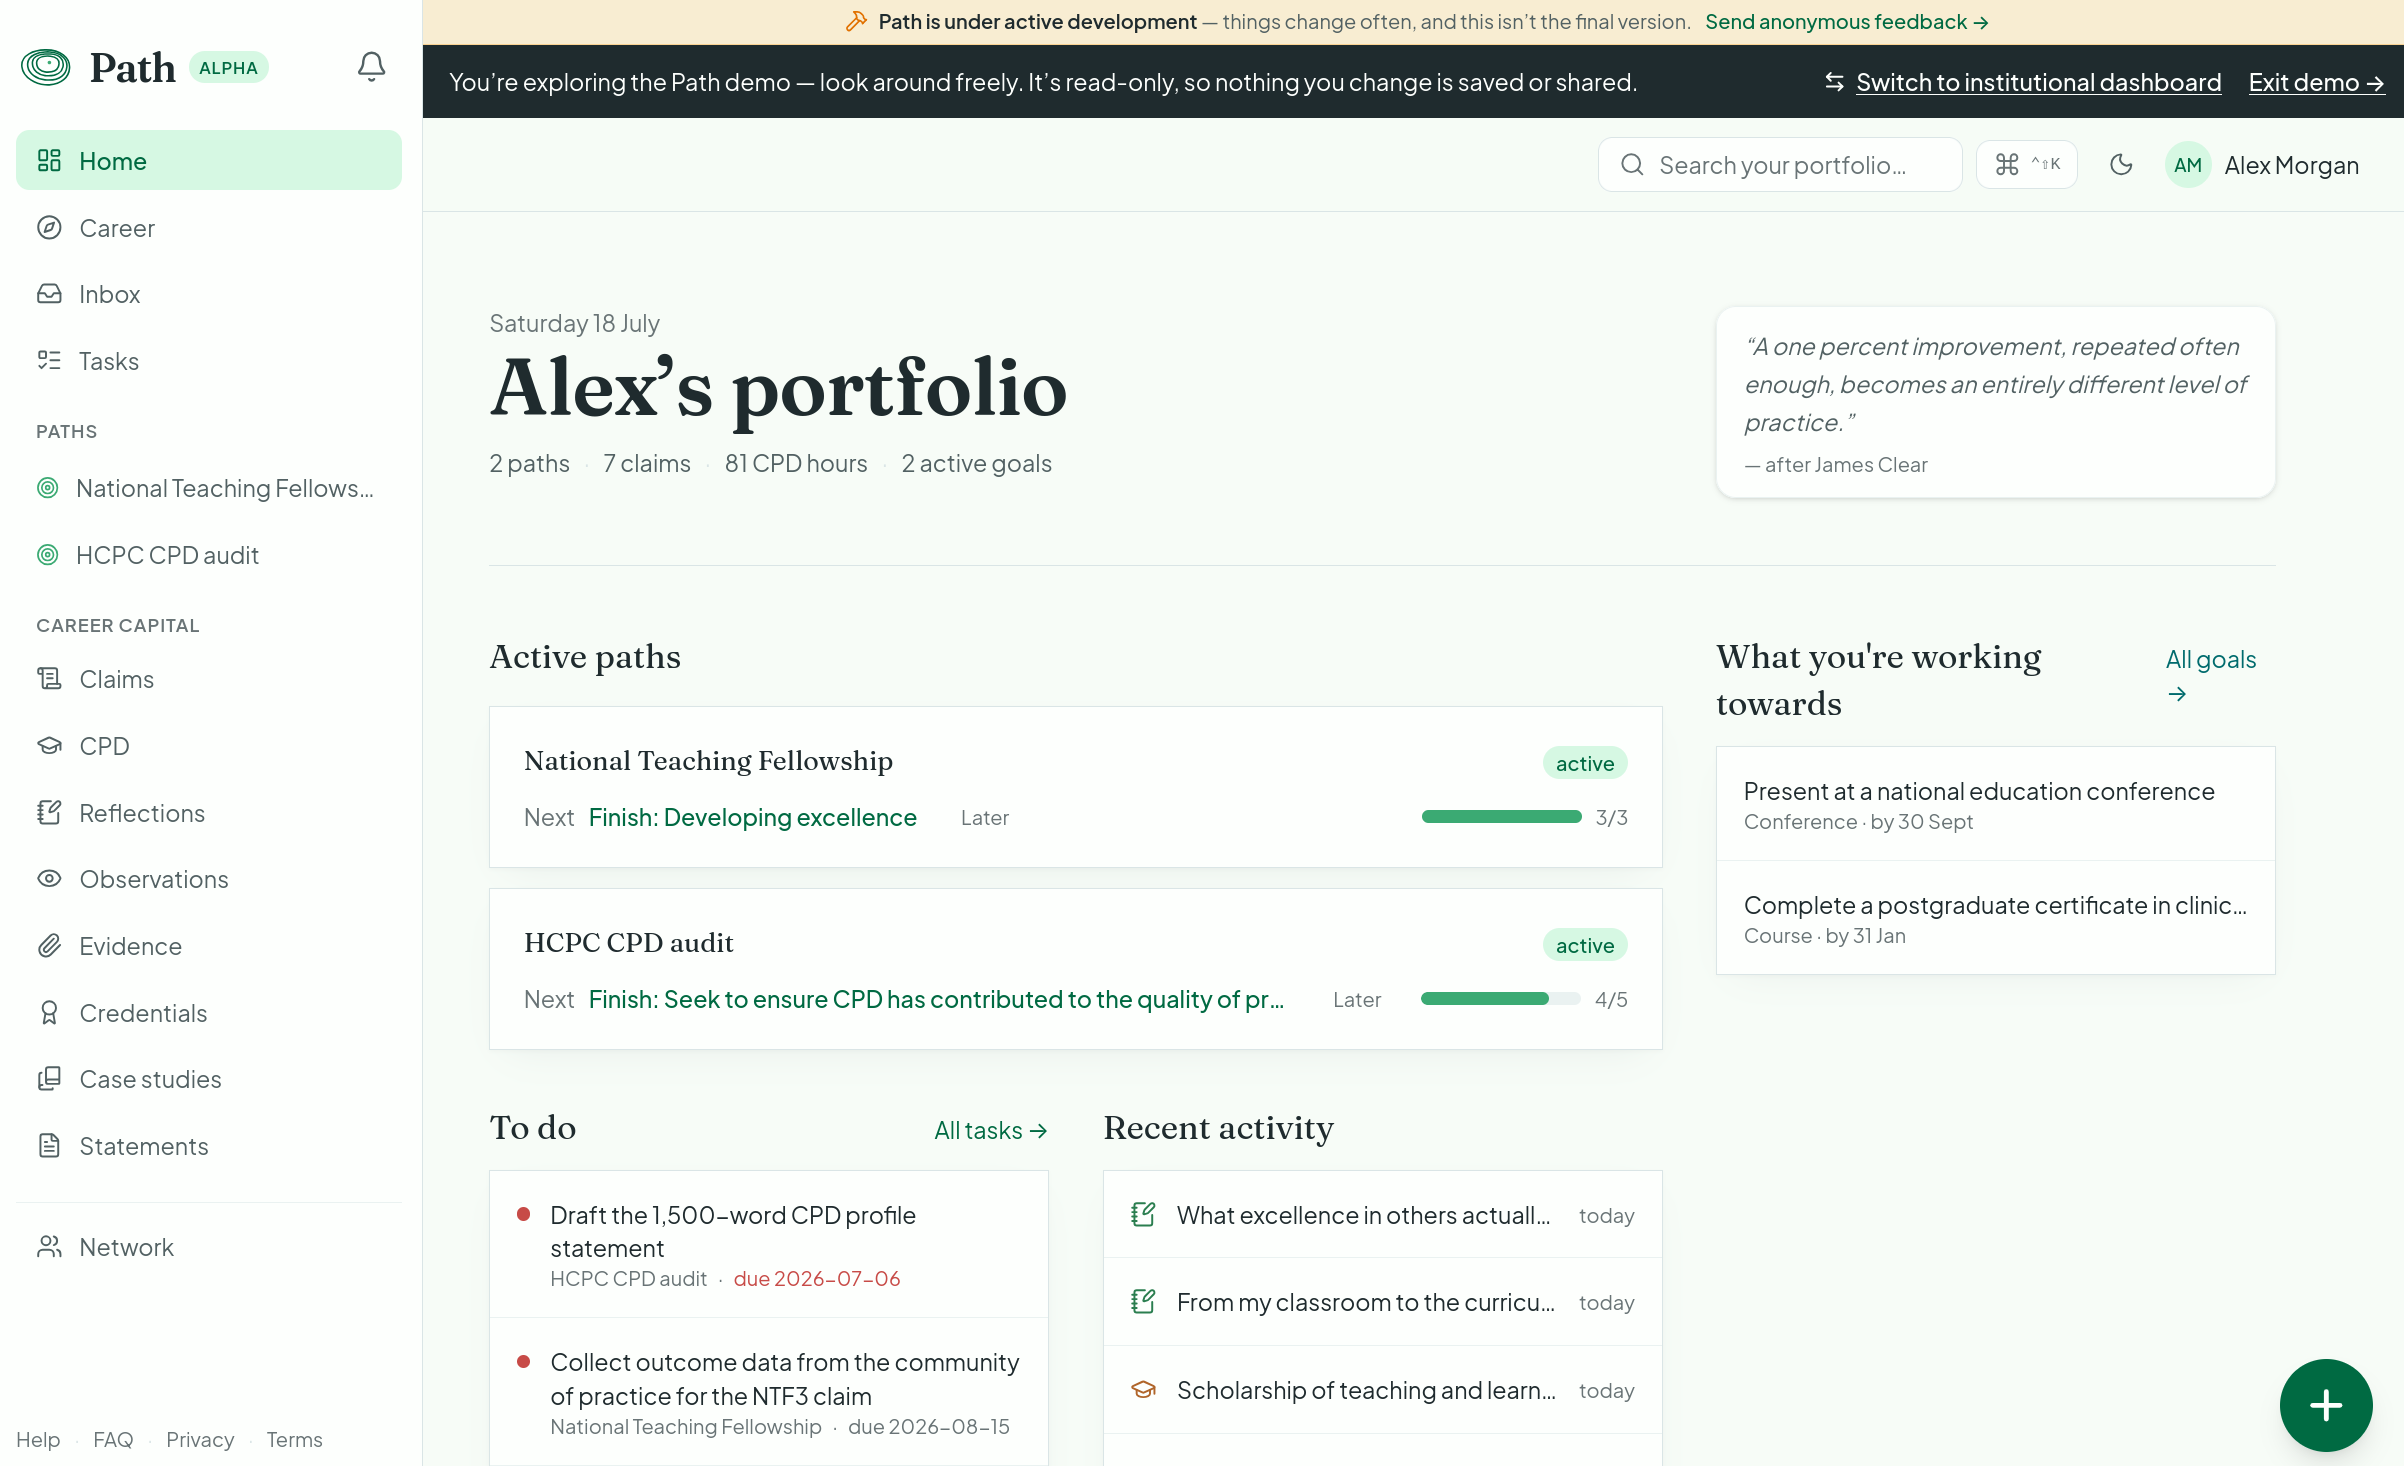
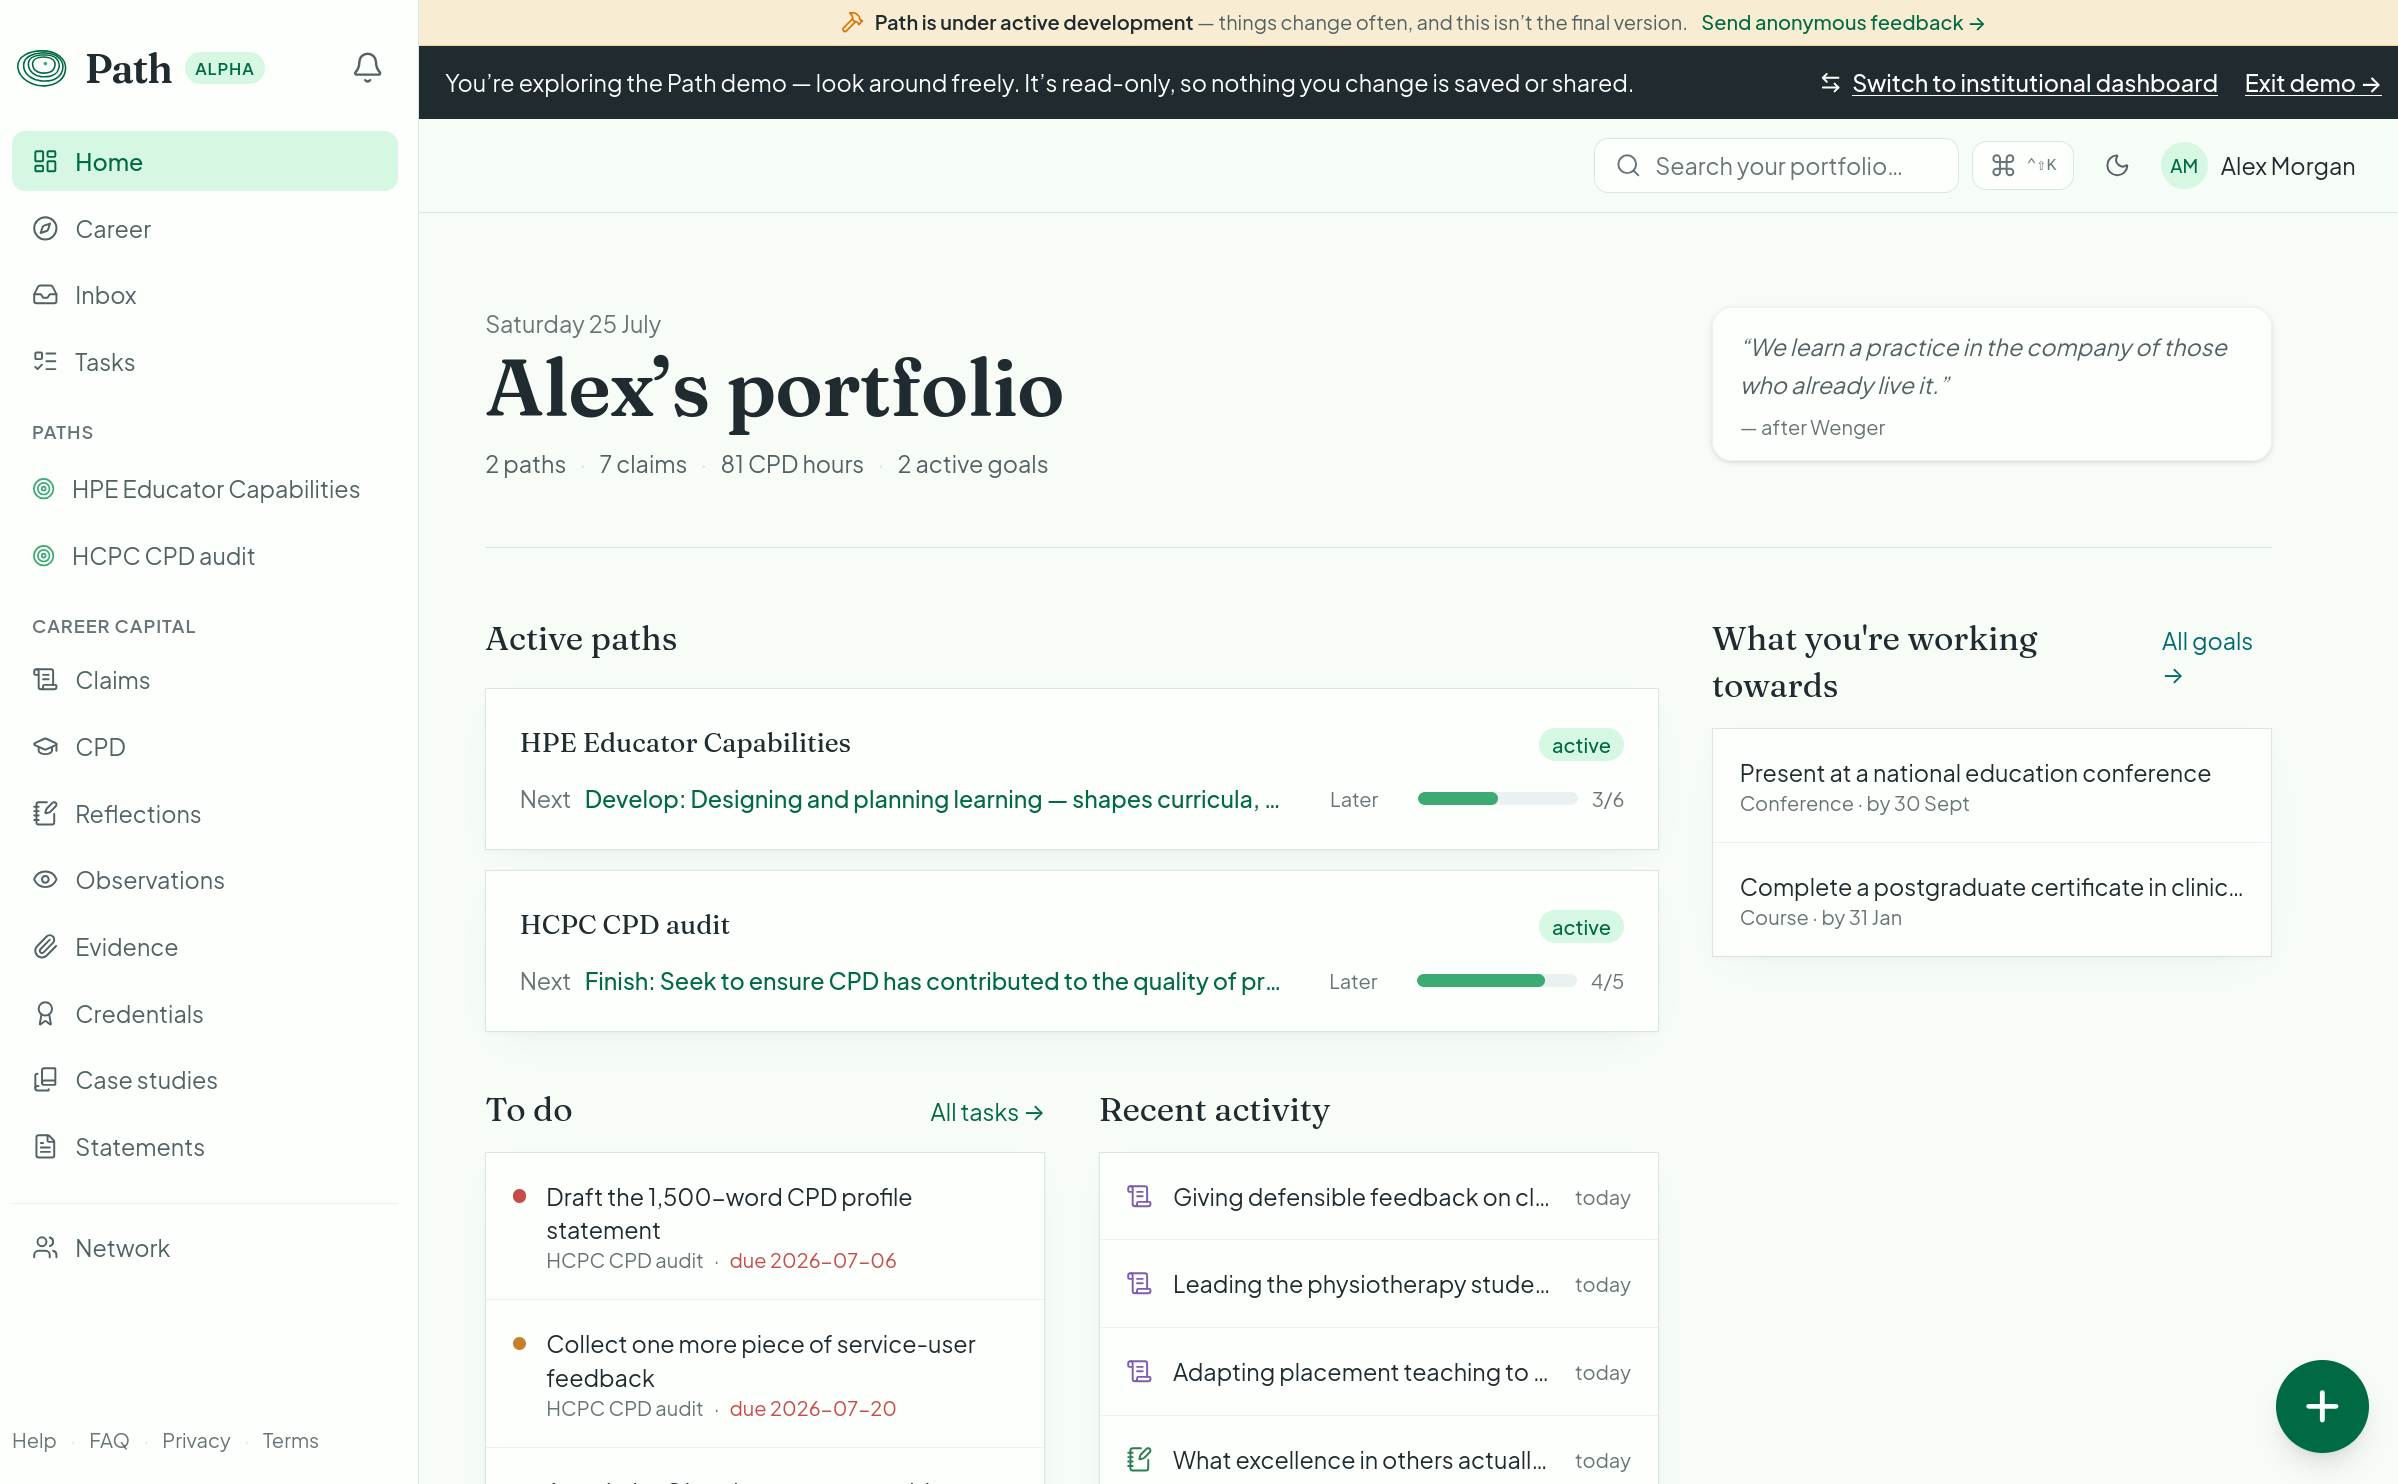
Replace Path screenshots that exposed the NTFS framework
The demo account's left-hand nav showed NTFS as an active path in every
screenshot, since NTFS/PSF criteria were an unverified AI approximation
never checked against Advance HE's published documents. Swapped the demo
account's path to Path's own HPE Educator Capabilities framework and
recaptured every affected screenshot.

diff --git a/content/Posts/2026-07-18-introducing-path-cpd-portfolio-app.md b/content/Posts/2026-07-18-introducing-path-cpd-portfolio-app.md
@@ -37,7 +37,7 @@ Every professional framework — a regulator's CPD standard, a fellowship scheme
 
 You pick a framework (or use *Path*'s own generic career framework if you don't have one yet), and start a **path**, which is your attempt at working towards the endpoint of the framework. As you go, you write **claims**: arguments that you meet a specific criterion within the framework. You back each claim with **evidence** — documents, certificates, photos — plus **CPD entries** and **reflections** that support it. Path then shows you a **coverage map**: which criteria are well evidenced, which are thin, and what the single highest-value next move is. *Note: This is a deterministic algorithm, which means it's Path's best guess as to what you could be working on, rather than an oracle telling you what's true.* 
 
-![[path_ntf_framework.png|A framework page showing criteria, an auto-generated "here's where to start" prompt, and a coverage table across claims, CPD, reflections, and evidence.|580]]
+![[path_hpe_framework.png|A framework page showing criteria, an auto-generated "here's where to start" prompt, and a coverage table across claims, CPD, reflections, and evidence.|580]]
 
 Evidence quality matters as much as evidence volume. So *Path* uses [Miller's pyramid](https://www.sciencedirect.com/science/article/pii/S1521693410000519) to distinguish evidence that merely describes something ("knows") from evidence that demonstrates it in context ("shows how") or documents it as everyday practice ("does"). A pile of certificates gives you a record. Evidence weighted by level gives you a stronger, more defensible case for your actual competence in any specific domain.
 

diff --git a/content/Projects/path.md b/content/Projects/path.md
@@ -55,7 +55,7 @@ A theory of expertise development is built into the tool rather than bolted on, 
 
 **Prove it — then aim higher.** A live coverage map shows your strengths criterion by criterion and surfaces the highest-value next move. Gaps are treated prospectively, as a plan rather than a deficit. A posture engine reads your data — coverage, deadline, how far you've come — and tells you what matters next, rather than leaving you to interpret a heatmap alone.
 
-![[Media/path_ntf_framework.png|A framework page: coverage across claims, CPD, reflections, and evidence per criterion, with an auto-generated "here's where to start" prompt|580]]
+![[Media/path_hpe_framework.png|A framework page: coverage across claims, CPD, reflections, and evidence per criterion, with an auto-generated "here's where to start" prompt|580]]
 
 Behind the day-to-day work, Path reframes the whole portfolio as a **career-capital ledger**; the transferable assets that put you in a stronger position later: knowledge, skills, track record, credentials and recognition, network and relationships, and professional identity. A forward layer holds your longer-horizon goals; a journey layer records the moments that shaped the route. Specific frameworks (e.g. a fellowship, a revalidation cycle, a job spec) are campaigns that hang off that spine and share one pool of evidence, so a single piece of work can count toward several at once.
 
